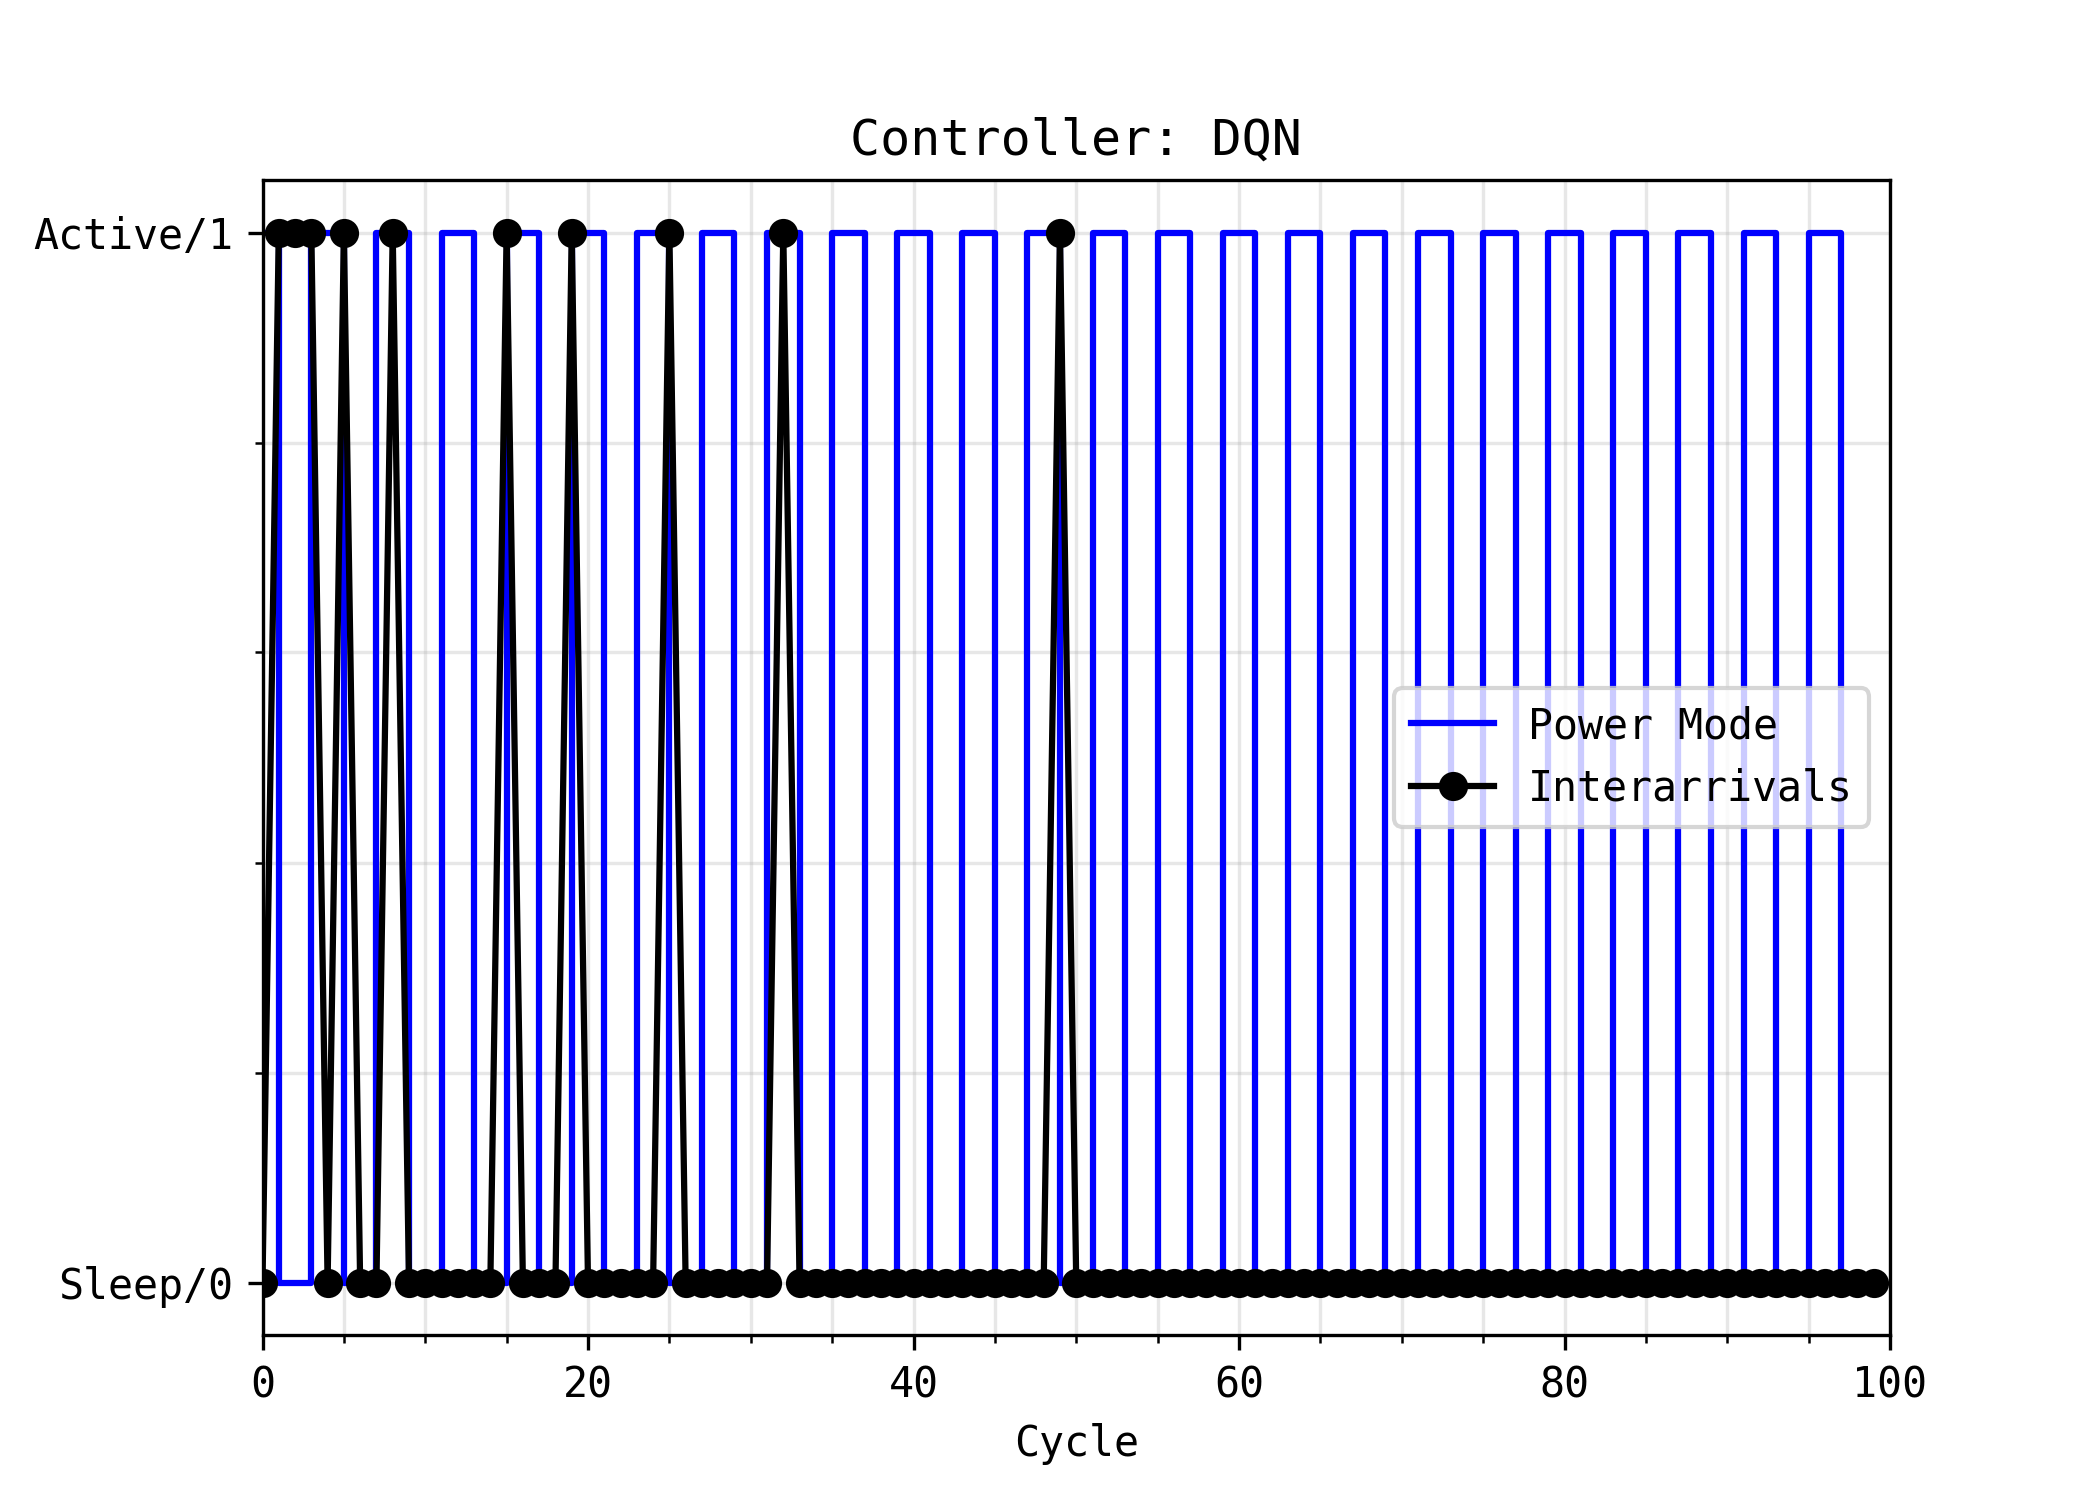
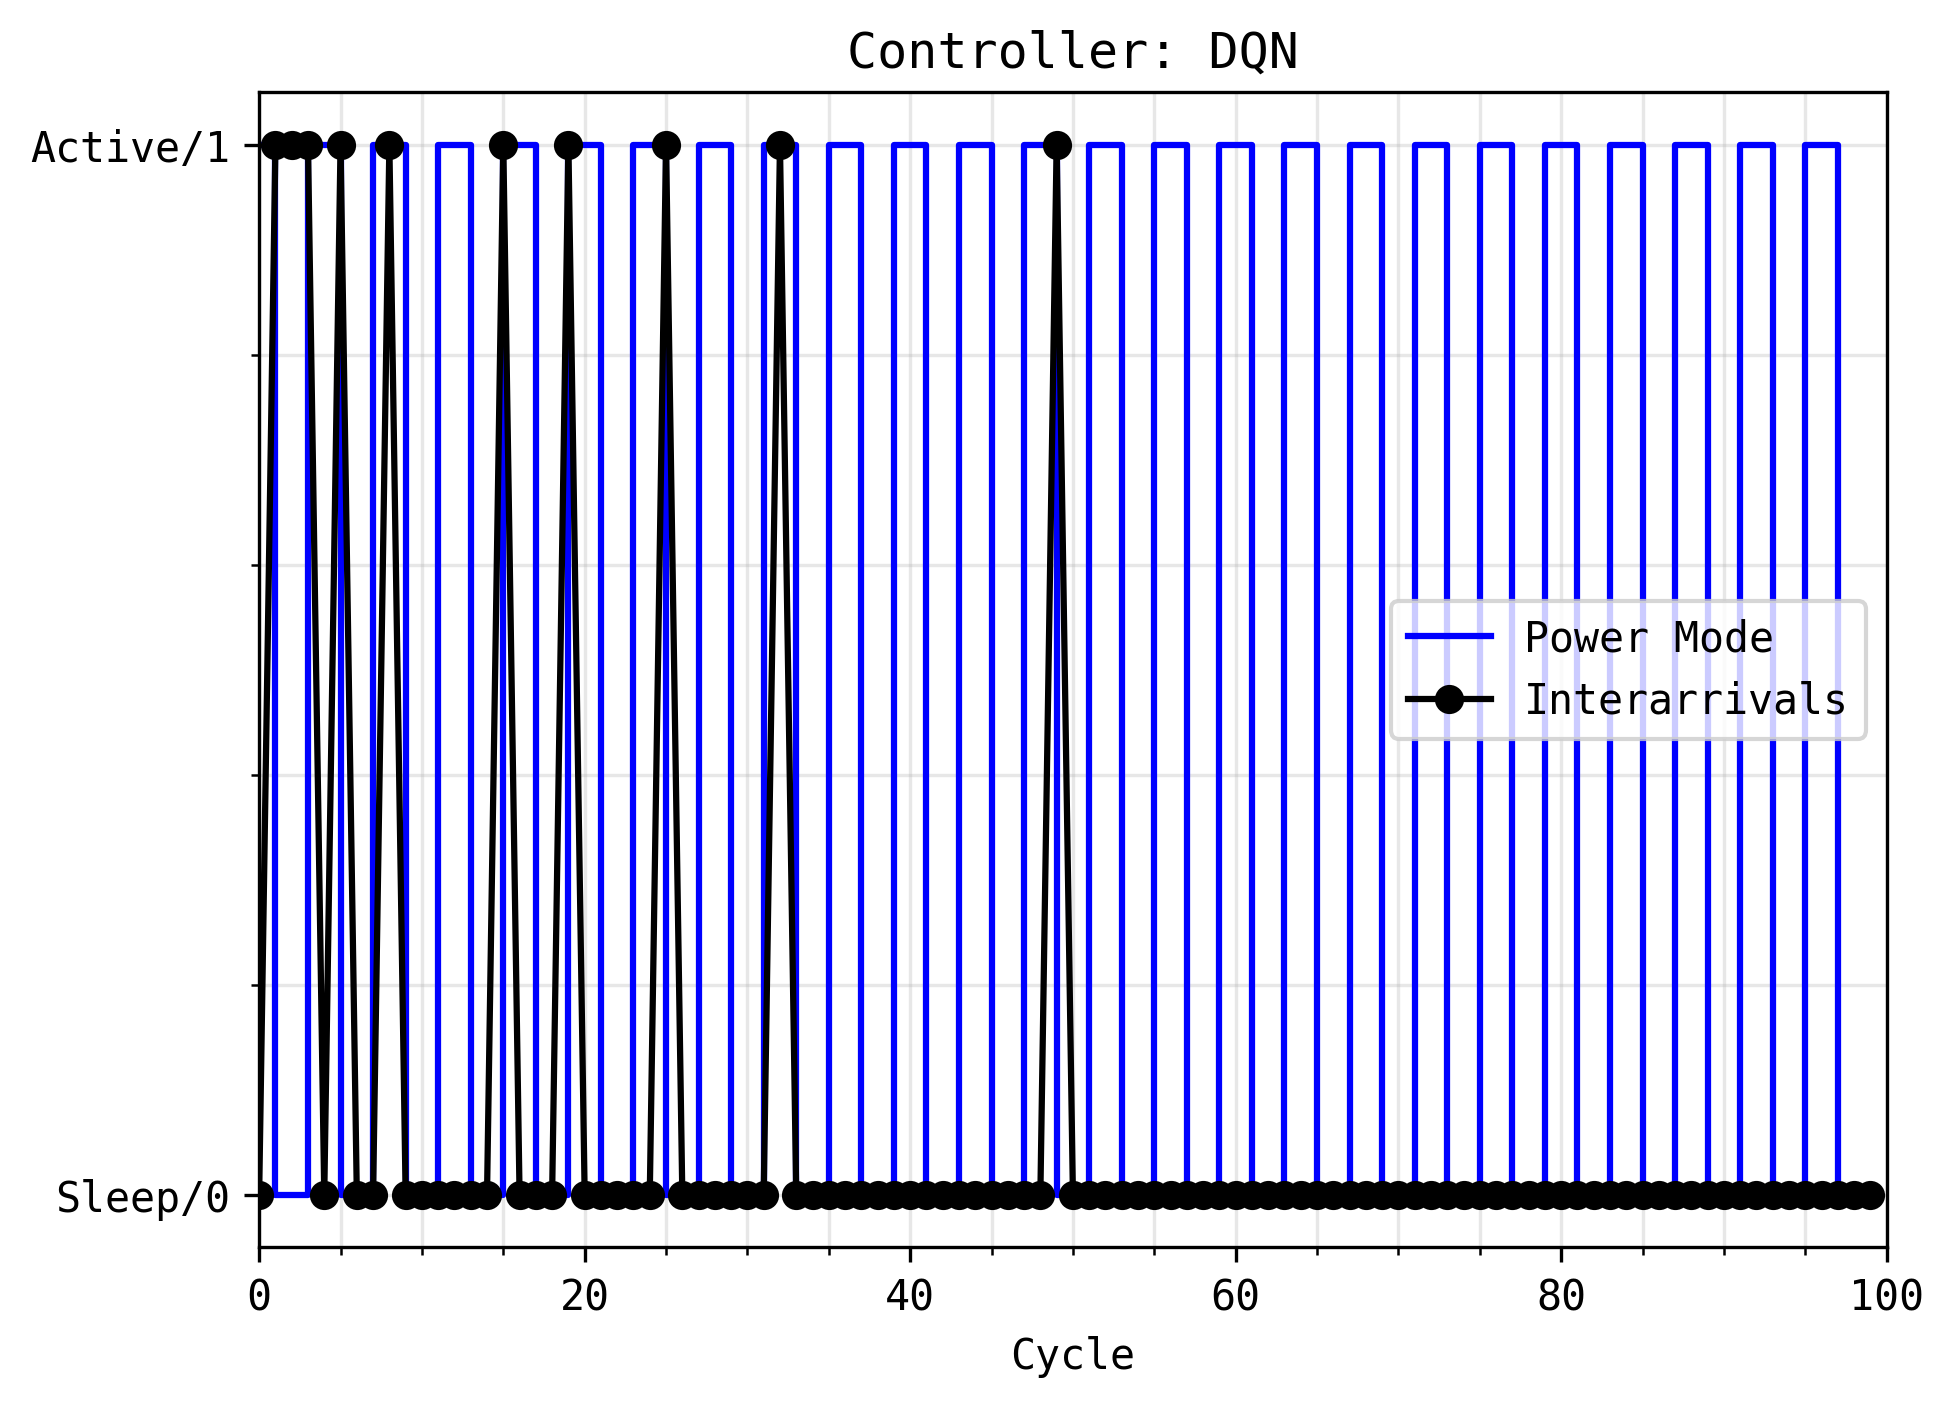
Reduce whitespace

diff --git a/train.py b/train.py
@@ -18,10 +18,10 @@ from system import SystemEnvironment
 plt.rcParams["font.family"] = "monospace"
 # plt.rcParams["axes.formatter.use_mathtext"] = True
 plt.rcParams["figure.figsize"] = (7, 5)  # set default size of plots
-
-
-# increase font size
 plt.rcParams.update({"font.size": 10})
+
+# reduce whitespace in plot save
+plt.rcParams["savefig.bbox"] = "tight"
 
 cfg = get_default_cfg()
 
